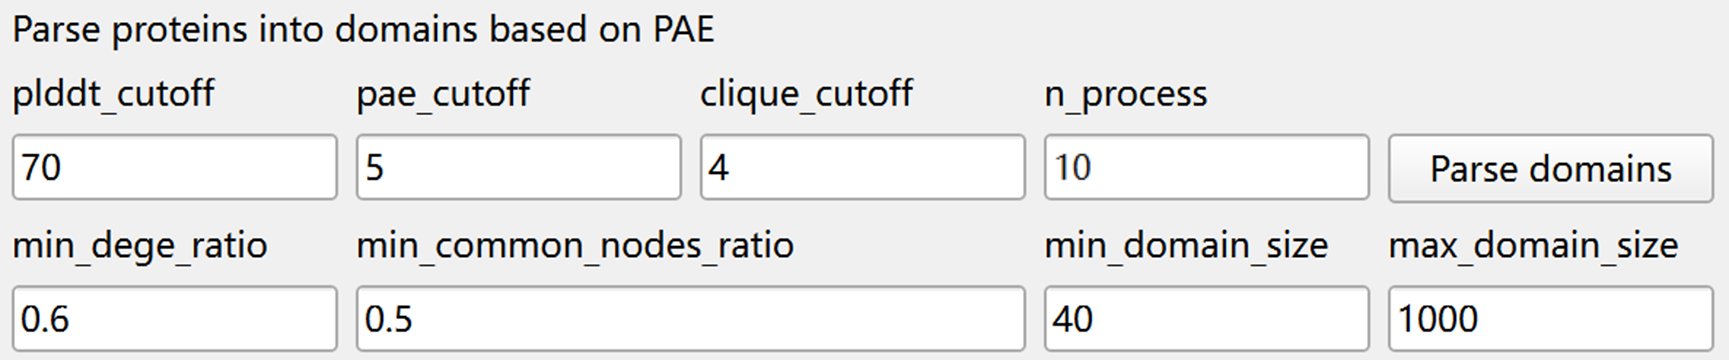
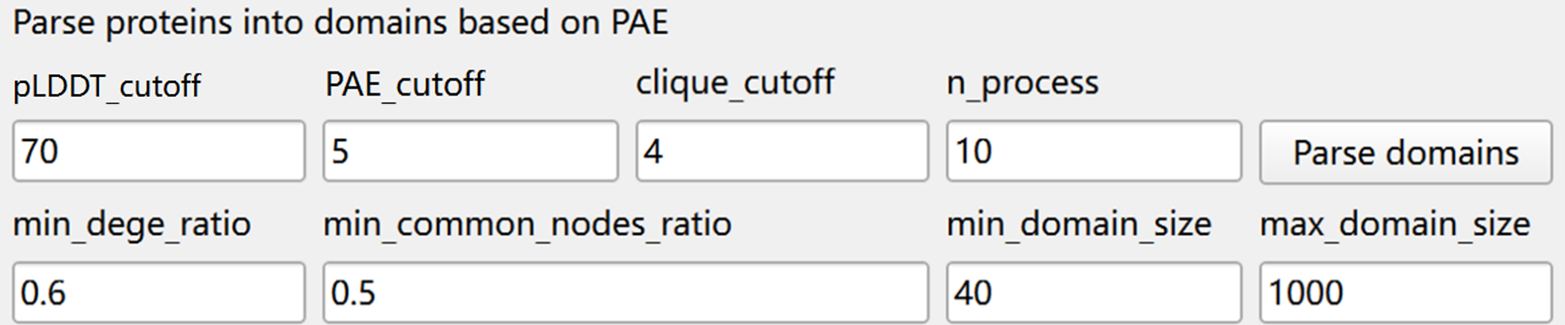
fix: normalize label casing (PDB/PAE/pLDDT) and bump min_data_per_box default to 200

diff --git a/DomainSeeker_plugin/src/tool.py b/DomainSeeker_plugin/src/tool.py
@@ -129,12 +129,12 @@ class DomainSeeker(ToolInstance):
                                     self.map_directory_text, self.project_directory_text.text()))
 
         self.pdb_directory_text = QLineEdit()
-        self._add_directory_row(body, 2, "Pdb directory:", self.pdb_directory_text,
+        self._add_directory_row(body, 2, "PDB directory:", self.pdb_directory_text,
                                 callback=lambda: self._select_directory(
                                     self.pdb_directory_text, self.project_directory_text.text()))
 
         self.pae_directory_text = QLineEdit()
-        self._add_directory_row(body, 3, "Pae directory:", self.pae_directory_text,
+        self._add_directory_row(body, 3, "PAE directory:", self.pae_directory_text,
                                 callback=lambda: self._select_directory(
                                     self.pae_directory_text, self.project_directory_text.text()))
 
@@ -153,7 +153,7 @@ class DomainSeeker(ToolInstance):
 
     def _create_file_fetching_section(self):
         layout = QVBoxLayout()
-        layout.addWidget(QLabel("Fetch pdb and pae files from AFDB"))
+        layout.addWidget(QLabel("Fetch PDB and PAE files from AFDB"))
         body = QHBoxLayout()
         body.addWidget(QLabel("Fetch proteins in file:"))
 
@@ -185,12 +185,12 @@ class DomainSeeker(ToolInstance):
 
         plddt_cutoff_text = QLineEdit()
         plddt_cutoff_text.setText("70")
-        body.addWidget(QLabel("plddt_cutoff"), 0, 0)
+        body.addWidget(QLabel("pLDDT_cutoff"), 0, 0)
         body.addWidget(plddt_cutoff_text, 1, 0)
 
         pae_cutoff_text = QLineEdit()
         pae_cutoff_text.setText("5")
-        body.addWidget(QLabel("pae_cutoff"), 0, 1)
+        body.addWidget(QLabel("PAE_cutoff"), 0, 1)
         body.addWidget(pae_cutoff_text, 1, 1)
 
         clique_cutoff_text = QLineEdit()
@@ -291,7 +291,7 @@ class DomainSeeker(ToolInstance):
         body.addWidget(box_num_text, 1, 0)
 
         min_data_per_box_text = QLineEdit()
-        min_data_per_box_text.setText("50")
+        min_data_per_box_text.setText("200")
         body.addWidget(QLabel("min_data_per_box"), 0, 1)
         body.addWidget(min_data_per_box_text, 1, 1)
 

diff --git a/README.md b/README.md
@@ -68,7 +68,7 @@ We show the interface of DomainSeeker here:
 
 <img src="images/interface.png" width="650px">
 
-### Fetch pdb and pae files from AFDB
+### Fetch PDB and PAE files from AFDB
 
 First of all, select the project directory in the "Global options" module of the plugin.
 
@@ -78,7 +78,7 @@ If you already have predicted structure files (.pdb) and PAE files (.json), plac
 
 <img src="images/pdb_pae_directory.png" width="600px">
 
-Alternatively, in the "Fetch pdb and pae files from AFDB" module, you can select a text file containing the UniProt IDs of all candidate proteins (with one UniProt ID per line) and click the "Fetch Files" button. DomainSeeker will then automatically download the corresponding PDB and PAE files, saving them in the folders specified by "Pdb Directory" and "Pae Directory" in the "Global Options" module.
+Alternatively, in the "Fetch PDB and PAE files from AFDB" module, you can select a text file containing the UniProt IDs of all candidate proteins (with one UniProt ID per line) and click the "Fetch Files" button. DomainSeeker will then automatically download the corresponding PDB and PAE files, saving them in the folders specified by "PDB Directory" and "Pae Directory" in the "Global Options" module.
 
 <img src="images/fetch_pdb_pae.png" width="600px">
 
@@ -94,8 +94,8 @@ When running with the data in the Example folder, setting n_processto 10 allows 
 
 <img src="images/domain_parsing.png" width="600px">
 
-> **plddt_cutoff**: Residues with a pLDDT value above this threshold are included as nodes in the residue graph. Residues falling below the threshold are considered to have low prediction confidence and are excluded.  
-> **pae_cutoff**: An edge is established between two residues if their average PAE exceeds this value.  
+> **pLDDT_cutoff**: Residues with a pLDDT value above this threshold are included as nodes in the residue graph. Residues falling below the threshold are considered to have low prediction confidence and are excluded.  
+> **PAE_cutoff**: An edge is established between two residues if their average PAE exceeds this value.  
 > **clique_cutoff**: Cliques containing at least this number of residues are treated as nodes in the cluster network; those smaller than the threshold are filtered out.  
 > **min_edge_ratio** & **min_common_nodes_ratio**: In the residue network, two cliques are connected in the cluster network if they share at least *min_common_nodes_ratio residues*, or if the edge  between them reaches *min_edge_ratio*. Connected cliques collectively form a domain.  
 > **min_domain_size**: Domains containing fewer than this number of residues are filtered out.  
@@ -148,7 +148,7 @@ The following image displays the user interface and configurable parameters of t
 
 > **box_num**: When calculating z-scores, data points are partitioned into a grid of box_num² cells based on their overlap volume and correlation values.  
 > **relative_density_cutoff**: Relative density is defined as the ratio of the number of data points in a grid cell to the average number of data points across all cells. Only cells with a relative density above this threshold are used when calculating the average curve, to minimize the influence of anomalies.  
-> **min_data_per_box**: After filtering cells by relative density, cells within the same overlap volume range are grouped into *box_num* bins. Each bin must contain at least *min_data_per_box* data points; otherwise, it is merged with an adjacent bin. The mean and standard deviation of the correlation values are computed for each bin to derive an interpolation function across overlap volumes.
+> **min_data_per_box**: After filtering cells by relative density, cells within the same overlap volume range are grouped into *box_num* bins. Each bin must contain at least *min_data_per_box* data points; otherwise, it is merged with an adjacent bin. The mean and standard deviation of the correlation values are computed for each bin to derive an interpolation function across overlap volumes.  
 > **zScore_offset**: The z-score is converted to a probability using a sigmoid function: `Sigmoid(zScore – offset)`.  
 
 The output files generated from the prior calculation are shown in the image below:  
@@ -271,10 +271,10 @@ python fetch_pdb_pae.py protein_list.txt output_dir --pae-only [pae_dir]
 ### Parse proteins into domains based on PAE
 
 ```
-python parse_with_pae.py pdb_dir pae_dir domain_dir n_process [plddt_cutoff] [pae_cutoff] [clique_cutoff] [min_edge_ratio] [min_common_nodes_ratio] [min_domain_size] [max_domain_size]
+python parse_with_pae.py pdb_dir pae_dir domain_dir n_process [pLDDT_cutoff] [pae_cutoff] [clique_cutoff] [min_edge_ratio] [min_common_nodes_ratio] [min_domain_size] [max_domain_size]
 ```
 
-Optional parameters default to: plddt_cutoff=70, pae_cutoff=5, clique_cutoff=4, min_edge_ratio=0.6, min_common_nodes_ratio=0.5, min_domain_size=40, max_domain_size=1000.
+Optional parameters default to: pLDDT_cutoff=70, PAE_cutoff=5, clique_cutoff=4, min_edge_ratio=0.6, min_common_nodes_ratio=0.5, min_domain_size=40, max_domain_size=1000.
 
 ### Fit domains into densities and score fitted domains
 
